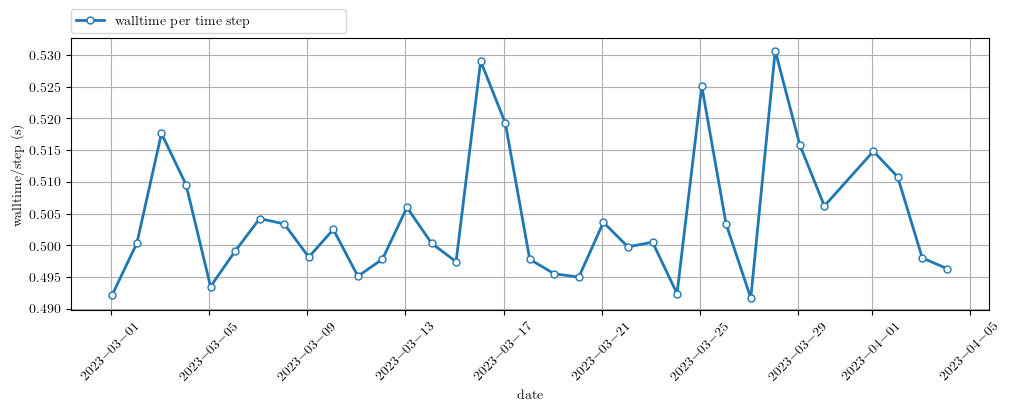
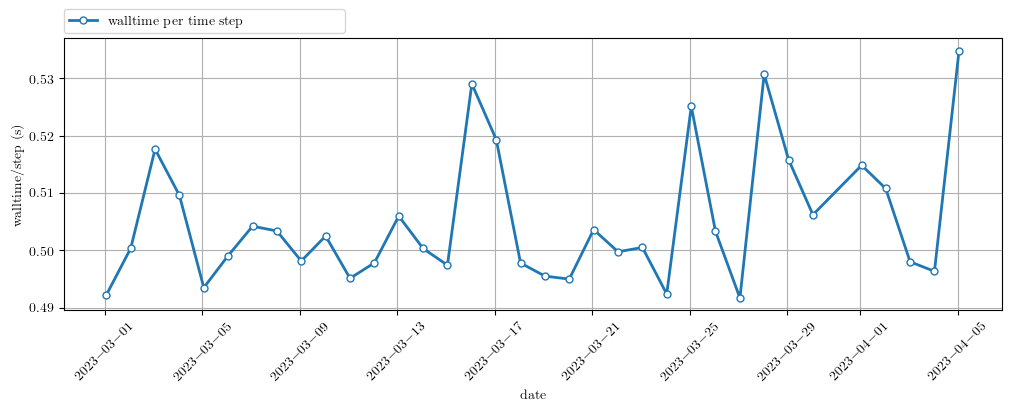
Automatic timing summary commit: lassen708 2023-04-05 01:01

diff --git a/README.md b/README.md
@@ -1,4 +1,4 @@
-Timings last ran on: 2023.04.04
+Timings last ran on: 2023.04.05
 
 # Status of production timings
 
